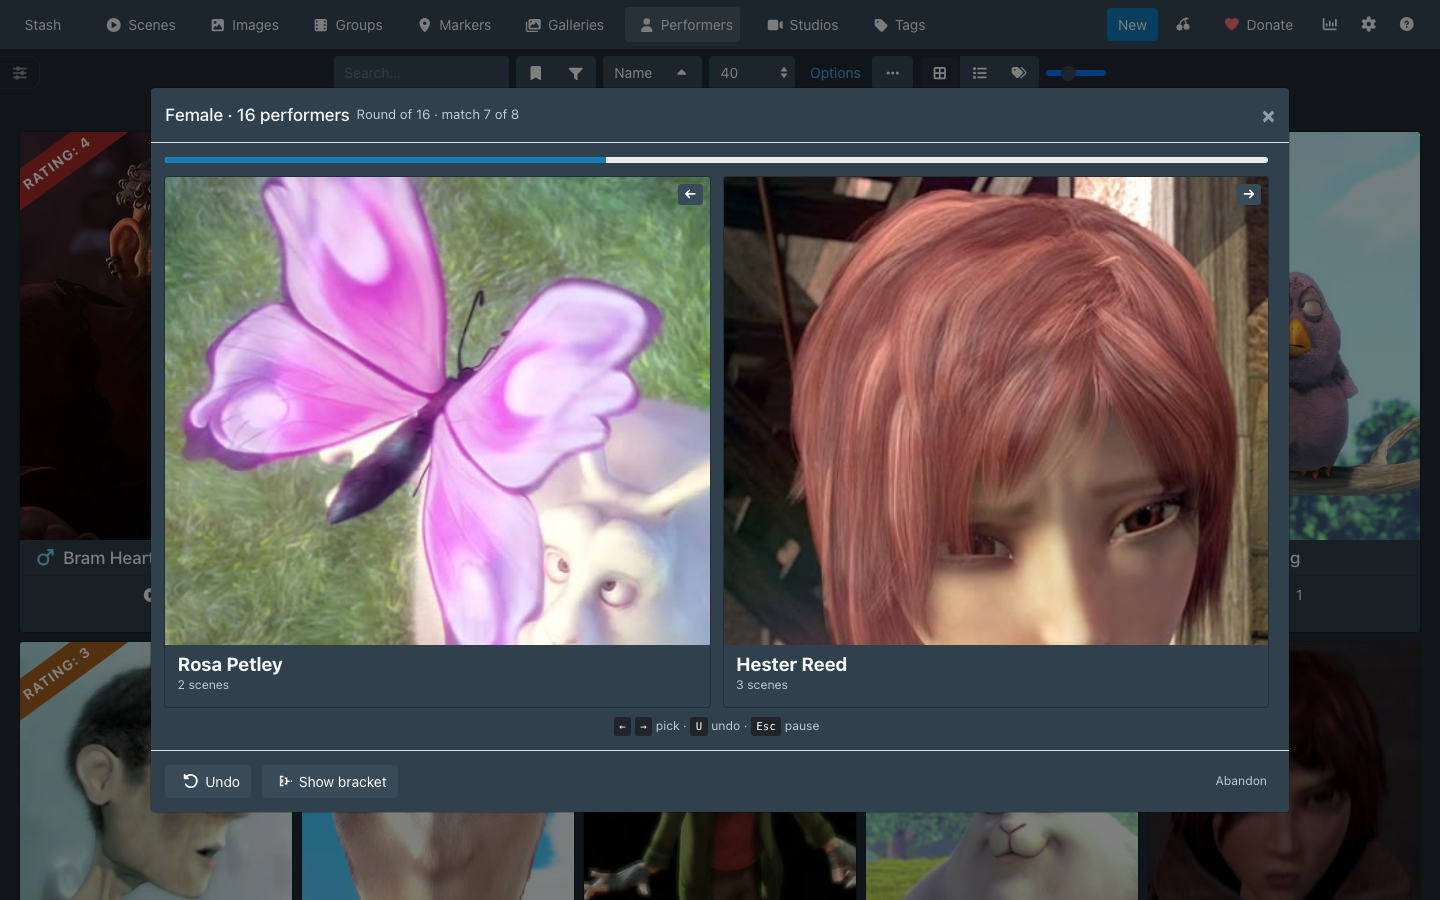
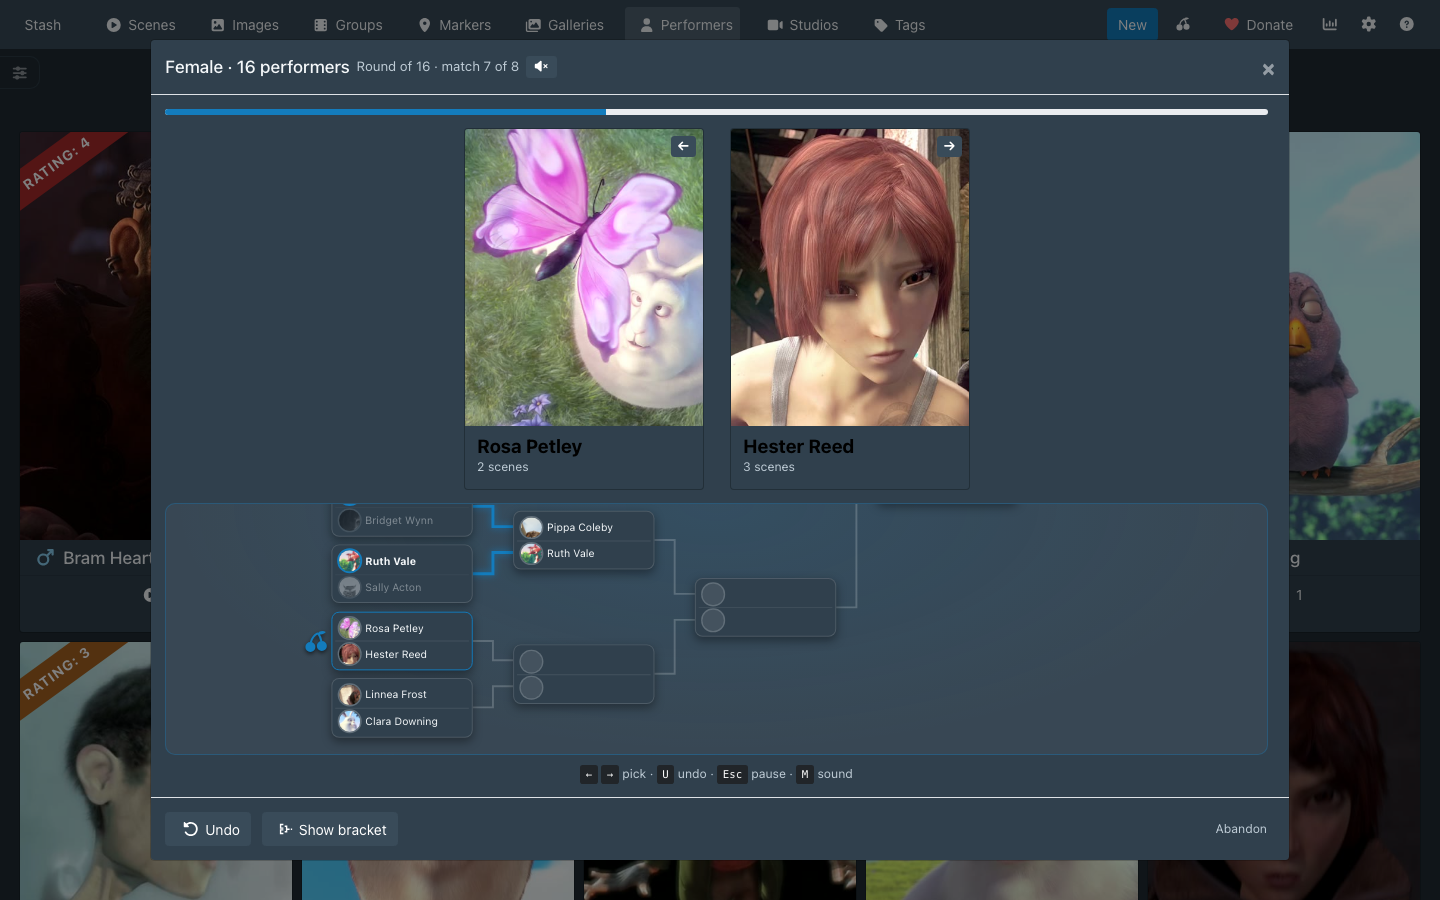
Cherry Pick 0.3.0: the README's bracket, champion and scene-bracket shots show the map
Taken with take-screenshots.mjs on a freshly seeded Blender library, with
reduced motion so each shot is a still.

diff --git a/plugins/cherrypick/README.md b/plugins/cherrypick/README.md
@@ -87,13 +87,13 @@ In a performer bracket, a performer you haven't rated who is in two or more scen
 
 With Apply bracket ratings automatically on, under Settings > Plugins, the champion screen has no Apply button: closing it sets those ratings, and says how many first. Cherry Pick's page lists each batch with Undo. The switch starts on, and off while Ascension, HotOrNot, Xenith or Restash's mirror writes your ratings, since their rankings would take up every rating without a preview. It follows those plugins until you set it yourself.
 
-| Playing                                                                   | The champion                                                                                                                     |
-| ------------------------------------------------------------------------- | -------------------------------------------------------------------------------------------------------------------------------- |
-| ![Two performers side by side in a bracket](docs/screenshots/bracket.png) | ![A champion who beat your favorites in the Challenge round, with the finalist and semifinalists](docs/screenshots/champion.png) |
+| Playing                                                                                                                                         | The champion                                                                                                                                      |
+| ----------------------------------------------------------------------------------------------------------------------------------------------- | ------------------------------------------------------------------------------------------------------------------------------------------------- |
+| ![Two performers in a bracket, over the map of the whole bracket with the cherries beside the match being played](docs/screenshots/bracket.png) | ![A champion who beat your favorites in the Challenge round, with the finalist, the semifinalists and New bracket](docs/screenshots/champion.png) |
 
-| A scene match                                                                                                                       | Look closer                                                                                                                                                           |
-| ----------------------------------------------------------------------------------------------------------------------------------- | --------------------------------------------------------------------------------------------------------------------------------------------------------------------- |
-| ![Two scenes side by side in a bracket, each with its cover, eight frames, performers and tags](docs/screenshots/scene-bracket.png) | ![Look closer on one scene: a frame from its sprite sheet, the scrub bar, sixteen frames, its performers, description and tags](docs/screenshots/scene-inspector.png) |
+| A scene match                                                                                                                                     | Look closer                                                                                                                                                           |
+| ------------------------------------------------------------------------------------------------------------------------------------------------- | --------------------------------------------------------------------------------------------------------------------------------------------------------------------- |
+| ![Two scenes side by side in a bracket under its map, each with its cover, eight frames, performers and tags](docs/screenshots/scene-bracket.png) | ![Look closer on one scene: a frame from its sprite sheet, the scrub bar, sixteen frames, its performers, description and tags](docs/screenshots/scene-inspector.png) |
 
 ### StashDB
 
